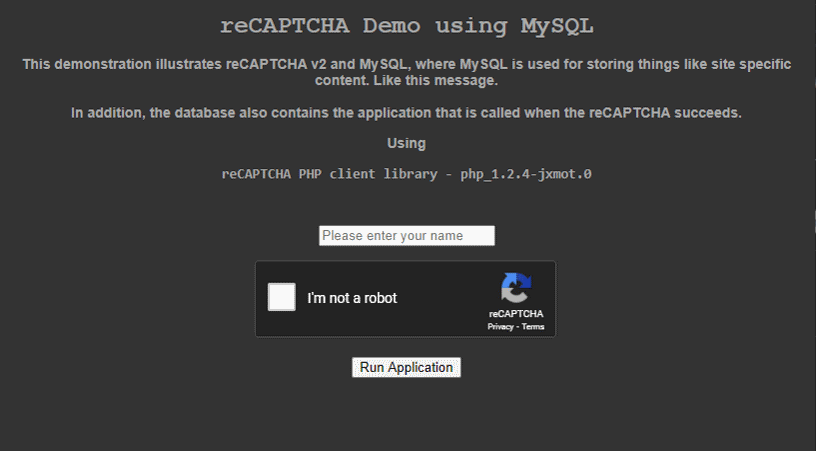
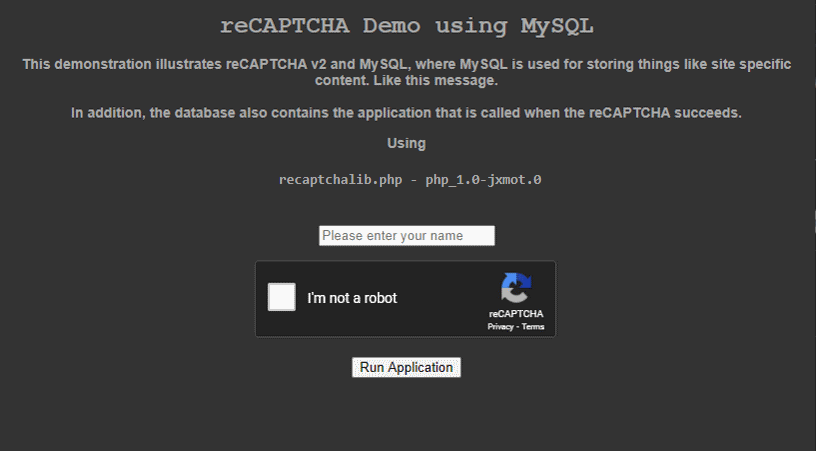
README update

Changed region(s): [[0.2757, 0.3725, 0.7353, 0.4346]]

diff --git a/README.md b/README.md
@@ -1,188 +1,97 @@
 # reCAPTCHA - A Basic Example Using PHP and MySQL
 
-# Table of Contents
-
-* [Overview](#overview)
-    * [History](#history)
-* [Requirements](#requirements)
-    * [reCAPTCHA and localhost](#recaptcha-and-localhost)
-    * [Local Server](#local-server)
-* [Components](#components)
-* [Use](#use)
-    * [Without MySQL](#without-mysql)
-    * [With MySQL](#with-mysql)
-        * [MySQL Configuration Items](#mysql-configuration-items)
-        * [SQL Files](#sql-files)
-    * [Screen Shots](#screen-shots)
-* [Features](#features)
-    * [Configuration](#configuration)
-    * [Form User Name](#form-user-name)
-    * [Hit Counter and Caller ID](#hit-counter-and-caller-id)
-* [Future](#future)
+- [Overview](#overview)
+  * [History](#history)
+- [Minimum Requirements](#minimum-requirements)
+  * [reCAPTCHA and localhost](#recaptcha-and-localhost)
+- [Components](#components)
+  * [reCAPTCHA v1.2.4](#recaptcha-v124)
+    + [Files](#files)
+- [Running the Demonstration](#running-the-demonstration)
+  * [Screen Shot](#screen-shot)
+- [Extras](#extras)
+  * [Form User Name](#form-user-name)
+  * [Hit Counter and Caller ID](#hit-counter-and-caller-id)
+  * [Using MySQL](#using-mysql)
+- [Future](#future)
 
 # Overview
 
-The files contained in this repository are intended to demonstrate the use of reCAPTCHA. I've used a previous version of the code here to create a simple "bot proof" entry into a photo gallery on one of my sites.
-
-
+The files contained in this repository are intended to demonstrate some methods of implementing Google's **reCAPTCHA V2**. The primary coding language is PHP and it used for program logic and for aiding in rendering content to the client. 
 
 ## History
 
-As an *improvement* to the gallery version I decided to use a MySQL database to store configuration data instead of hard-coding it in the original `site.php` file. That allows me to easily use this code in other applications with only a single line change. And providing that a corresponding row of data exists within the database.
+This project started out as means to have a reCAPTCHA as part of an entry page to a photo gallery. While I was developing the entry page I realized that designing it with *reuse* as a priority was a good idea. So now each new use of this code only requires two things:
 
-## Recent History
+* A unique page identifier. A text string is sufficient - **`demo_01`**. 
+* A row in a database table populated with the necessary data.
 
+Those design choices led to the use of MySQL to store reCAPTCHA specific configuration data and page content. The initial version of PHP code that was provided by Google at that time (*[1.0.0](<https://github.com/google/recaptcha/tree/1.0.0>)*) was a single 5kb PHP source file and one PHP example file. The `index.php` is based on that example.
 
-
-# Requirements
+# Minimum Requirements
 
 * An internet web server capable of **https**, or a local **http** server (*for development*) running on your PC. 
 * PHP 7.x or newer.
-* You must sign up for a reCAPTCHA account and obtain the site key and secret for your site. Start here - <https://www.google.com/recaptcha/intro/index.html>. 
-* A MySQL server is optional, 
+* You must sign up for a reCAPTCHA account and obtain the site key and secret for your site. Start [here](<https://www.google.com/recaptcha/intro/index.html>). 
+
+**NOTE:** MySQL is not required for running the demonstration.
 
 ## reCAPTCHA and localhost
 
-Before you can use reCAPTCHA when serving from *localhost* you will need to go to **_Key Settings_** and add the following lines to the **_Domains_** box - 
+**Important:** If you are running your server locally on your PC it will be necessary to add `localhost` to the list of servers in Google's reCAPTCHA console. Go to **_Key Settings_** and add the following lines to the **_Domains_** box - 
 
 ```
 localhost
 127.0.0.1
 ```
 
-## Local Server
-
-My preference for a local HTTP server is MAMP(<https://www.mamp.info/en/>). There are alternatives, including a web server running on a virtual machine. However MAMP is very easy to use and there's a *free* version. The free version also includes MySQL. However, if you're already running a MySQL server you will need to make modifications to the MAMP server configuration files. A guide can be found in my Toolbox, see [MAMP Set Up](https://bitbucket.org/jxmot/toolbox/src/f748ca316f0095eb0e298a24348f21b2315808d9/MAMP.md?fileviewer=file-view-default). Another option is to disable *one* of your MySQL servers.
-
-An alternative to MAMP is XAMPP(<https://www.apachefriends.org/index.html>). I've been using it more than MAMP because I prefer the features and options that are available to me.
-
 # Components
 
-The following files are present - 
+The following files are needed for used for the demonstration - 
 
 * `index.php` - manages the reCAPTCHA widget and contains a form with a field for a user name and a submit button. 
-* `sitedb.php` - a configuration file that contains all of the MySQL code and settings. It obtains the reCAPTCHA settings and target page URL from the MySQL database.
-* `site.php` - a configuration file. It obtains the reCAPTCHA settings and target page URL.
-* `count.php` - a *invisible* hit counter. It does not display on the page that contains it.
-* `callerid.php` - logging of the visitor's ip address and the date and time they visited.
-* `phpinfo.php` - only displays information regarding the PHP installation on the server. This is the file that is loaded when the reCAPTCHA succeeds *and* the visitor has filled in the name field and clicked the form's submit button.
-* `sql/create_table.sql` - an SQL script file that creates the `site` table.
-* `sql/seed.sql` - an SQL script file that seeds a single row.
-
-## reCAPTCHA Libraries
-
-* `recaptchalib.php` - This is the original, the v1.0.0. And it was removed in the second version, v1.1.0. 
-* `ReCaptcha\*.*` - This is v1.2.4, obtained from the [reCAPTCHA PHP client library](<https://github.com/google/recaptcha>). I made some modifications to it:
-    * Composer is no longer required to install it. 
-    * `POST` and `Curl`classes have been modified, and the methods have been tested. I did not modify or test the `Socket` method.
-
-# Use
-
-The following sections describe two methods of use, "*With MySQL*" and "*Without MySQL*". To switch between them modify `index.php`, line 5. The default is to not use MySQL.
+* `recaptchalib.php` - this is the *orginal*, I've updated it to eliminate some PHP >v7 deprecation warnings.
+* `site.php` - a configuration file. It contains the reCAPTCHA settings and target page URL:
 
 ```php
-// control over the use of MySQL
-define('USE_MYSQL', false);
+<?php
+$_site_id = 'demo_01';
+define('SITE_ID', $_site_id);
+
+/*
+    Register API keys at - 
+        https://www.google.com/recaptcha/admin
+
+    reCAPTCHA supported 40+ languages listed here -
+        https://developers.google.com/recaptcha/docs/language
+*/
+define('SITE_KEY', 'YOUR RECAPTCHA SITE KEY GOES HERE');
+define('SITE_SECRET', 'YOUR RECAPTCHA SECRET GOES HERE');
+/*
+    Language setting used by our HTML and required by the
+    reCAPTCHA api. The charset is only used in our HTML.
+*/
+define('SITE_LANG', 'en');
+define('SITE_CHARSET', 'UTF-8');
+// the page that is loaded upon passing the reCAPTCHA and
+// entering a user name
+define('SITE_APPL', './phpinfo.php');
+/*
+    some page elements
+*/
+define('PAGE_TITLE', 'reCAPTCHA PHP Demo');
+define('PAGE_HEADING', 'reCAPTCHA PHP Demo');
+define('PAGE_MESSAGE', 'This demonstration illustrates reCAPTCHA v2 with PHP.');
+// Submit button caption
+define('FORM_SUBMIT', 'Enter');
+// reCAPTCHA theme (light or dark)
+define('RECAPTCHA_THEME', 'dark');
+?>
 ```
+**Field Descriptions:**
 
-The library version is also selected in `index.php`, line 8. The default is to use `recaptchalib.php`.
-
-```php
-// if false or undefined then recaptchalib.php will be used
-// if true then the slightly modified v1.2.4 will be used
-define('USE_V124', false);
-```
-
-## Without MySQL (default)
-
-To prepare for first use edit `site.php` and change the following as needed - 
-
-* line 2 : unique identifier for this reCAPTCHA site, 
-* line 12 : your reCAPTCHA *site key* goes here
-* line 13 : your reCAPTCHA *secret* goes here
-* line 22 : this where you would put the path + file for your specific use. For the first test leave this line as-is.
-* lines 26, 27, 28  : reCAPTCHA page title, heading, and message.
-* line 30 : Submit button caption
-* line 32 : reCAPTCHA theme - `light` or `dark`
-
-**Then follow these steps :**
-
-1. Copy all of the files into a folder on your server. Be careful! Don't put it in your web document root. Place it in a subfolder so you don't over write any existing `index.php` files
-2. Use your browser and go to `https://yourserver/optional-path/`, where `optional-path` is where you placed the files.
-3. Fill in the name field and click the submit button.
-4. The `phpinfo.php` should load and display information about the PHP installation on your server.
-
-## With MySQL
-
-Use the following steps - 
-
-* line 2 : unique identifier for this reCAPTCHA site, it is also used for retrieving the database record.
-* 
-
-1. Edit `sitedb.php`, `create_table.sql` and `seed.sql` as necessary
-2. Run `create_table.sql`
-3. Run `seed.sql`
-4. Copy all of the files into a folder on your server
-5. Run `index.php` as a client to your server
-
-### MySQL Configuration Items
-
-The following is only found in `sitedb.php` - 
-
-```php
-  $_db_name = 'recaptcha_dev';    // database name
-  $_site_table = 'sites';         // table name
-  $_db_server = 'localhost';      // MySQL server
-  $_db_user = 'root';             // MySQL user 
-  $_db_passw = 'root';            // MySQL user's password
-```
-
-**NOTE :** Modify the user and password as needed to suit your database server's and application's security requirements.
-
-The following is also found in `sitedb.php`, it used in finding the correct settings in the database - 
-
-```php
-  $_site_id = 'demo_01';          // unique identifier for this reCAPTCHA site
-```
-
-**NOTE :** It is recommended that the *site ID* string contain only - 
-
-* Letters - uppercase, lowercase, or mixed
-* Numbers - 0 through 9, as necessary
-* Other - `_` (*underscore*), `-` (*hyphen*)
-
-It should **not** contain any whitespace, or characters not listed above.
-
-### SQL Files
-
-The `create_table.sql` and `seed.sql` files can be ran (*MySQL Workbench can run them*) to create the table's schema and to seed some data. The data in the `seed.sql` file is for demonstration only, edit as necessary or create your own seed-file.
-
-## Screen Shots
-
-If your reCAPTCHA *site key*, *secret*, and *domains* have been set properly, and your server is running then you should see the following - 
-
-<p align="center">
-  <img src="./mdimg/recaptcha-thumb_1-816x451.png" alt="sample image" title="sample image #1" width="65%">
-  <h4 align="center">
-      reCAPTCHA Demo - No Database
-  </h4>
-</p>
-<br/><br/>
-<p align="center">
-  <img src="./mdimg/recaptcha-thumb_2-816x451-8b.png" alt="sample image" title="sample image #1" width="65%">
-  <h4 align="center">
-      reCAPTCHA Demo - With MySQL Database
-  </h4>
-</p>
-
-# Features
-
-## Configuration
-
-Either the hard-coded (`site.php`) or the MySQL (`sitedb.php` and `seed.sql`) have the following configurable items - 
-
-* reCAPTCHA *site key* and *site secret*.
-* Site ID - a unique string used for identifying the specific site using this reCAPTCHA (*found in* `site.php` *and* `sitedb.php` *as* `$_site_id`)
+* Site ID - a unique string used for identifying the specific site using this reCAPTCHA
+* reCAPTCHA *site key* and *site secret*
 * Site Language - used in `index.php` within the `<HTML>` tag and for setting the reCAPTCHA language
 * Site Character Set - used in `index.php` within the `<META>` tag and for setting the page character set
 * Site Application - a string that contains a path and file that are loaded upon success from reCAPTCHA, this can also be a URL
@@ -191,6 +100,60 @@ Either the hard-coded (`site.php`) or the MySQL (`sitedb.php` and `seed.sql`) ha
 * Page Message - any content (*including HTML*) to be used as a message to the user
 * Form Submit Button Caption - the caption to be used in the submit button
 * reCAPTCHA Theme - `light` or `dark` are the only two choices allowed by reCAPTCHA
+
+## reCAPTCHA v1.2.4
+
+Starting with v1.1.0 the reCAPTCHA support code was no longer a single PHP file. It grew into something that IMHO is way more complex than it needs to be. And in its current form the code will not work easily. In order to use it you would need *Composer* to install it and in general it seems to be written to run in the Google *cloud*.
+
+Personally, I'm not *against* Composer. In the right development environment it's perfect. But for my *intended use* Composer is not an option.
+
+In this repository you will find a *modified* v1.2.4 in the `ReCaptcha` folder. And this demo will work with ether v1.0.0 or v1.2.4. By default the V1.0.0 version will be used.
+
+The library version is selected in `index.php`, line 8. The default is to use `recaptchalib.php`.
+
+```php
+// if false or undefined then recaptchalib.php will be used
+// if true then the slightly modified v1.2.4 will be used
+define('USE_V124', false);
+```
+
+### Files
+
+* `ReCaptcha\*.*` - This is v1.2.4, obtained from the [reCAPTCHA PHP client library](<https://github.com/google/recaptcha>). I made some modifications to it:
+    * Composer is no longer required to install it. 
+    * `POST` and `Curl`classes have been modified, and the methods have been tested. I did not modify or test the `Socket` method.
+
+# Running the Demonstration
+
+To prepare for first run edit `site.php` and change the following as needed - 
+
+* line 2 : unique identifier for this reCAPTCHA site.
+* line 12 : your reCAPTCHA *site key* goes here
+* line 13 : your reCAPTCHA *secret* goes here
+* line 22 : this where you would put the path + file for your specific use. For the first test leave this line as-is. A complete URL is also allowed here.
+* lines 26, 27, 28  : reCAPTCHA page title, heading, and message.
+* line 30 : Submit button caption
+* line 32 : reCAPTCHA theme - `light` or `dark`
+
+**Then follow these steps :**
+
+1. Copy all of the files into a folder on your server. Be careful! Don't put it in your web document root. Place it in a sub-folder so you don't over write any existing `index.php` files
+2. Use your browser and go to `https://yourserver/optional-path/`, where `optional-path` is where you placed the files.
+3. Fill in the name field and click the submit button.
+4. The `phpinfo.php` should load and display information about the PHP installation on your server.
+
+## Screen Shot
+
+If your reCAPTCHA *site key*, *secret*, and *domains* have been set properly, and your server is running then you should see the following - 
+
+<p align="center">
+  <img src="./mdimg/recaptcha-thumb_1-816x451.png" alt="sample image" title="sample image #1" width="65%">
+  <h4 align="center">
+      reCAPTCHA Demo
+  </h4>
+</p>
+
+# Extras
 
 ## Form User Name
 
@@ -216,11 +179,34 @@ For each visitor a time stamped record with the visitors IP address is created -
 
 If the log file does not exist the first time `callerid.php` is ran it will be created automatically. In additon, if the file exceeds approximately 20k in size it is copied to a time stamped back up copy and a new caller ID log is created. The time stamp in the file name will be the date and time when the *back up* is created.
 
+## Using MySQL
+
+Everything found in `site.php`, except the site ID can be stored in a database. To enable MySQL use edit the `index.php` file and change `USE_MYSQL` to `true`:
+
+```php
+// control over the use of MySQL
+define('USE_MYSQL', false);
+```
+
+The following files are used when MySQL is enabled:
+
+* `sitedb.php` - a configuration file that contains all of the MySQL code and settings. It obtains the reCAPTCHA settings and target page URL from the MySQL database.
+* `sql/create_table.sql` - an SQL script file that creates the `site` table.
+* `sql/seed.sql` - an SQL script file that seeds a single row.
+
+<br>
+<p align="center">
+  <img src="./mdimg/recaptcha-thumb_2-816x451-8b.png" alt="sample image" title="sample image #1" width="65%">
+  <h4 align="center">
+      reCAPTCHA Demo - With MySQL Database
+  </h4>
+</p>
+
 # Future
 
 * An administration form is planned that will allow an admin user to enter sites into the database.
 * Might create a MongoDB version.
-* Store the CSS in the site config data.
 
-(c) 2017 Jim Motyl
-
+<p align="center">
+(c) 2017-2020 Jim Motyl
+</p>
